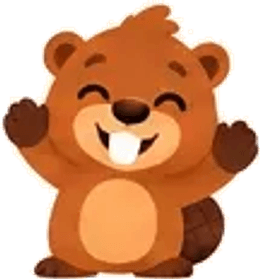
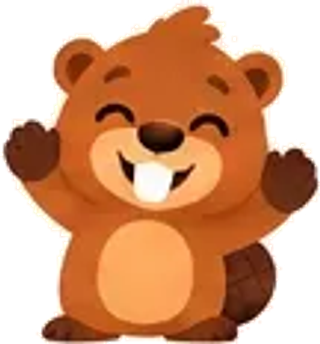
Melhora qualidade de imagem, corrige auto-update do PWA, adiciona painéis e revisões
- Reexporta as imagens do mascote sem paletização de cor (estavam em PNG
  indexado de 256 cores, causando banding visível nos degradês); a
  ilustração de boas-vindas (bento-hero.png) tinha o mesmo problema.
- Corrige a causa provável de "imagem bugada/antiga": o PWA não recarregava
  sozinho depois de um deploy, então dava pra ver uma mistura de bundle JS
  velho com assets novos até fechar e reabrir o app manualmente. Agora
  registra o service worker via virtual:pwa-register e recarrega sozinho
  (com um toast) quando detecta uma versão nova.
- Agrupa as 11 trilhas em 5 painéis temáticos (Fundamentos, Operações do
  dia a dia, Análise e Gestão, Tributos e Auditoria, Extras), com cabeçalho
  próprio na tela inicial, no estilo das seções do Duolingo.
- Adiciona uma lição de revisão ao final de cada trilha (formato
  "checkpoint": pouca teoria nova, exercícios que recombinam o que já foi
  ensinado com números/frases diferentes). 68 → 79 lições.

diff --git a/src/content/layout.js b/src/content/layout.js
@@ -1,21 +1,34 @@
 /* Ordem final das trilhas/unidades e a função que monta COURSES a partir do
    conteúdo bruto (as 7 trilhas originais + as lições novas + os exercícios bônus). */
 
+/* Painéis: agrupam as trilhas em blocos temáticos maiores, no estilo das
+   "seções" do Duolingo, só para organizar visualmente a lista de trilhas
+   em src/ui/screens/home.js (courseRow/renderHome). Não afeta a lógica de
+   progresso: uma trilha continua liberando a próxima na ordem de LAYOUT,
+   independente do painel. */
+export const PANELS = [
+ {id:"fund", title:"Fundamentos", desc:"A base de tudo: matemática do dia a dia, o que é Contabilidade, débito e crédito."},
+ {id:"op", title:"Operações do dia a dia", desc:"Os lançamentos que toda empresa faz: compras, vendas, bens duradouros e estoque."},
+ {id:"gestao", title:"Análise e Gestão", desc:"Ler as demonstrações e usar custos para decidir."},
+ {id:"trib_aud", title:"Tributos e Auditoria", desc:"Como a empresa paga tributos e como ela é auditada."},
+ {id:"extra", title:"Extras", desc:"Leve o que aprendeu para a sua própria vida financeira."}
+];
+
 export const LAYOUT = [
- {id:"antes", title:"Antes de Tudo", icon:"🧮", color:"#4059AD", desc:"O básico do básico: porcentagem, juros, saldo, empresa e documentos. Para começar do zero absoluto.",
-  units:[["Matemática do dia a dia",["antes1","antes2","antes3","antes4","antes9","antes10"]],["O mundo dos negócios",["antes5","antes6","antes7","antes8"]]]},
- {id:"base", units:[["O que é Contabilidade",["base1","base2"]],["Equação e resultado",["base3","base4","base5","base6"]]]},
- {id:"dc", units:[["Razonetes e natureza",["dc1","dc2"]],["Lançando de verdade",["dc3","dc4","dc5","dc6"]]]},
- {id:"lanc", units:[["Operações comerciais",["lanc1","lanc2","lanc3","lanc8","lanc9"]],["Ajustes e livros",["lanc4","lanc6","lanc7","lanc5"]]]},
- {id:"imob", units:[["Bens de uso duradouro",["imob1","imob2","imob3"]],["Intangíveis e avaliação",["imob4","imob5"]]]},
- {id:"estoq", title:"Estoques e Custo de Mercadorias", icon:"📦", color:"#4C7A3F", desc:"Como o estoque vira custo: aquisição, PEPS, custo médio, apuração do CMV e ajustes por perda.",
-  units:[["Do estoque ao CMV",["estoq1","estoq2","estoq3","estoq4","estoq5","estoq6"]]]},
- {id:"demo", units:[["Balanço e DRE",["demo1","demo2"]],["Caixa, notas e análise",["demo3","demo5","demo4","demo6"]]]},
- {id:"cust", units:[["Classificando custos",["cust1","cust2","cust5"]],["Decisões",["cust3","cust4","cust6"]]]},
- {id:"trib", units:[["Tributos",["trib1","trib2","trib3","trib4"]]]},
- {id:"aud", units:[["Fundamentos",["aud1","aud2","aud3"]],["Execução e relatório",["aud4","aud5","aud6"]]]},
- {id:"vida", title:"Contabilidade para a Vida", icon:"🏠", color:"#C06A1B", desc:"Use o que aprendeu no seu dinheiro: balanço pessoal, orçamento, reserva e dívidas.",
-  units:[["Finanças pessoais",["vida1","vida2","vida3","vida4"]]]}
+ {id:"antes", panel:"fund", title:"Antes de Tudo", icon:"🧮", color:"#4059AD", desc:"O básico do básico: porcentagem, juros, saldo, empresa e documentos. Para começar do zero absoluto.",
+  units:[["Matemática do dia a dia",["antes1","antes2","antes3","antes4","antes9","antes10"]],["O mundo dos negócios",["antes5","antes6","antes7","antes8"]],["Revisão",["antes11"]]]},
+ {id:"base", panel:"fund", units:[["O que é Contabilidade",["base1","base2"]],["Equação e resultado",["base3","base4","base5","base6"]],["Revisão",["base7"]]]},
+ {id:"dc", panel:"fund", units:[["Razonetes e natureza",["dc1","dc2"]],["Lançando de verdade",["dc3","dc4","dc5","dc6"]],["Revisão",["dc7"]]]},
+ {id:"lanc", panel:"op", units:[["Operações comerciais",["lanc1","lanc2","lanc3","lanc8","lanc9"]],["Ajustes e livros",["lanc4","lanc6","lanc7","lanc5"]],["Revisão",["lanc10"]]]},
+ {id:"imob", panel:"op", units:[["Bens de uso duradouro",["imob1","imob2","imob3"]],["Intangíveis e avaliação",["imob4","imob5"]],["Revisão",["imob6"]]]},
+ {id:"estoq", panel:"op", title:"Estoques e Custo de Mercadorias", icon:"📦", color:"#4C7A3F", desc:"Como o estoque vira custo: aquisição, PEPS, custo médio, apuração do CMV e ajustes por perda.",
+  units:[["Do estoque ao CMV",["estoq1","estoq2","estoq3","estoq4","estoq5","estoq6"]],["Revisão",["estoq7"]]]},
+ {id:"demo", panel:"gestao", units:[["Balanço e DRE",["demo1","demo2"]],["Caixa, notas e análise",["demo3","demo5","demo4","demo6"]],["Revisão",["demo7"]]]},
+ {id:"cust", panel:"gestao", units:[["Classificando custos",["cust1","cust2","cust5"]],["Decisões",["cust3","cust4","cust6"]],["Revisão",["cust7"]]]},
+ {id:"trib", panel:"trib_aud", units:[["Tributos",["trib1","trib2","trib3","trib4"]],["Revisão",["trib5"]]]},
+ {id:"aud", panel:"trib_aud", units:[["Fundamentos",["aud1","aud2","aud3"]],["Execução e relatório",["aud4","aud5","aud6"]],["Revisão",["aud7"]]]},
+ {id:"vida", panel:"extra", title:"Contabilidade para a Vida", icon:"🏠", color:"#C06A1B", desc:"Use o que aprendeu no seu dinheiro: balanço pessoal, orçamento, reserva e dívidas.",
+  units:[["Finanças pessoais",["vida1","vida2","vida3","vida4"]],["Revisão",["vida5"]]]}
 ];
 
 /**
@@ -31,7 +44,7 @@ export function buildCourses(rawCourses, newLessons, extra){
   Object.keys(extra).forEach(id => { pool[id].ex = pool[id].ex.concat(extra[id]); });
   return LAYOUT.map(L => {
     const o = old[L.id] || {};
-    const c = { id:L.id, title:L.title || o.title, icon:L.icon || o.icon, color:L.color || o.color, desc:L.desc || o.desc };
+    const c = { id:L.id, panel:L.panel, title:L.title || o.title, icon:L.icon || o.icon, color:L.color || o.color, desc:L.desc || o.desc };
     c.units = L.units.map(u => ({ t:u[0], lessons:u[1].map(id => pool[id]) }));
     c.lessons = [].concat.apply([], c.units.map(u => u.lessons));
     return c;

diff --git a/src/content/trilhas/imob.js b/src/content/trilhas/imob.js
@@ -82,6 +82,18 @@ export default {
     {t:"tf", q:"Um ativo pode ficar registrado por um valor contábil maior do que o seu valor recuperável, sem qualquer ajuste.", a:false, e:"Pela prudência, quando o valor contábil supera o recuperável, reconhece-se a perda."},
     {t:"mc", q:"Ativos intangíveis de vida útil indefinida, como o goodwill, devem ser testados quanto ao valor recuperável:", o:["Todo ano, com ou sem indício de perda","Só quando a empresa quiser","Nunca, porque não amortizam","Só no ano da compra"], a:0, e:"Por não terem amortização regular, a checagem anual é obrigatória."},
     {t:"tf", q:"Havendo indícios de perda de valor, um bem de vida útil definida também deve ser testado quanto ao valor recuperável, mesmo fora do teste anual obrigatório dos intangíveis de vida indefinida.", a:true, e:"Indícios de perda de valor disparam o teste a qualquer momento, para qualquer tipo de ativo."}
+   ]},
+  {id:"imob6", title:"Revisão: imobilizado e intangíveis", icon:"🔄",
+   learn:[
+    {h:"Do custo à baixa", b:ol(['Reconhecimento: custo total até o bem ficar pronto para uso.','Depreciação: distribui o custo ao longo da vida útil (linear, acelerado ou por unidades produzidas).','Baixa: compara o valor de venda com o valor contábil líquido para achar ganho ou perda.','Impairment: se o valor recuperável cair abaixo do valor contábil, reconhece-se a perda.'])}
+   ],
+   ex:[
+    {t:"num", q:"Equipamento de R$ 25.000, com frete de R$ 1.000 e instalação de R$ 2.000. Qual o custo capitalizado?", a:28000, u:"R$", e:"25.000 + 1.000 + 2.000 = 28.000."},
+    {t:"num", q:"Bem com custo de R$ 60.000, valor residual de R$ 10.000 e vida útil de 5 anos. Qual a depreciação anual pelo método linear?", a:10000, u:"R$", e:"(60.000 − 10.000) ÷ 5 = 10.000."},
+    {t:"num", q:"Máquina com custo de R$ 40.000 e depreciação acumulada de R$ 24.000, vendida por R$ 20.000. Qual o resultado da venda?", a:4000, u:"R$", e:"Valor contábil = 40.000 − 24.000 = 16.000. Resultado = 20.000 − 16.000 = 4.000 de ganho."},
+    {t:"tf", q:"O ágio por rentabilidade futura (goodwill) é amortizado mensalmente, como qualquer outro intangível.", a:false, e:"O goodwill não é amortizado; é testado por impairment todo ano."},
+    {t:"mc", q:"Um ativo com valor contábil de R$ 90.000 e valor recuperável de R$ 65.000 deve:", o:["Reconhecer uma perda por impairment de R$ 25.000","Ser reavaliado para cima","Continuar sem nenhum ajuste","Virar despesa integral imediatamente"], a:0, e:"90.000 − 65.000 = 25.000 de perda, pelo princípio da prudência."},
+    {t:"mc", q:"Terrenos, em geral, sofrem:", o:["Nenhuma depreciação, por terem vida útil indefinida","Depreciação acelerada","Amortização mensal","Exaustão"], a:0, e:"Terrenos não se desgastam com o uso da mesma forma que máquinas e veículos."}
    ]}
   ]
 };

diff --git a/src/content/trilhas/trib.js b/src/content/trilhas/trib.js
@@ -66,6 +66,18 @@ export default {
     {t:"tf", q:"Emitir uma nota fiscal com valor menor do que o real para pagar menos imposto é elisão fiscal.", a:false, e:"Isso é evasão (sonegação): um meio ilícito, e não apenas uma escolha entre opções legais."},
     {t:"mc", q:"Sonegação fiscal é:", o:["Crime, além de gerar multa e cobrança do tributo com juros","Apenas uma infração administrativa leve","Permitida se o valor for pequeno","O mesmo que elisão fiscal"], a:0, e:"A Lei nº 8.137/1990 tipifica crimes contra a ordem tributária."},
     {t:"match", pairs:[["Elisão fiscal","Redução lícita da carga tributária"],["Evasão fiscal","Redução por meios ilícitos, como omitir receita"],["Fato gerador","O evento que faz nascer a obrigação de pagar o tributo"]], e:"O critério central é sempre a licitude do meio usado."}
+   ]},
+  {id:"trib5", title:"Revisão: tributos", icon:"🔄",
+   learn:[
+    {h:"O mapa dos tributos", b:tbl(['Pergunta','Resposta'],[['Imposto, taxa ou contribuição de melhoria?','Taxa tem contrapartida de serviço; contribuição de melhoria vem de obra pública'],['Direto ou indireto?','Direto recai sobre quem paga; indireto é repassado no preço'],['Qual regime?','Simples (pequenas empresas), Presumido (base por %) ou Real (sobre o lucro ajustado)'],['Lícito ou ilícito?','Elisão é legal; evasão (sonegação) é crime']])}
+   ],
+   ex:[
+    {t:"mc", q:"O ICMS é um tributo:", o:["Indireto, embutido no preço","Direto, recai só sobre o dono da empresa","Que não existe mais","Municipal"], a:0, e:"ICMS é repassado ao consumidor no preço: tributo indireto."},
+    {t:"match", pairs:[["Imposto","Sem contrapartida específica"],["Taxa","Paga por um serviço ou fiscalização"],["Contribuição de melhoria","Por obra pública que valoriza o imóvel"]], e:"As três espécies clássicas de tributo."},
+    {t:"tf", q:"No Simples Nacional, vários tributos são pagos numa guia única, o DAS.", a:true, e:"É uma das principais vantagens do regime para pequenas empresas."},
+    {t:"mc", q:"Escolher, entre dois regimes tributários permitidos, o que gera menos imposto a pagar é:", o:["Elisão fiscal","Evasão fiscal","Crime contra a ordem tributária","Impossível de se fazer"], a:0, e:"É uma escolha lícita, dentro do que a lei permite."},
+    {t:"tf", q:"No Lucro Real, uma empresa sem lucro no período ainda paga IRPJ normalmente.", a:false, e:"No Lucro Real, o IRPJ incide sobre o lucro; sem lucro, não há imposto a pagar."},
+    {t:"mc", q:"Emitir uma nota fiscal com valor menor do que o real para pagar menos imposto é:", o:["Evasão fiscal (sonegação), um crime","Elisão fiscal, uma prática legal","Irrelevante para a Contabilidade","Obrigatório em alguns casos"], a:0, e:"É um meio ilícito de reduzir tributo: evasão fiscal."}
    ]}
   ]
 };

diff --git a/src/content/trilhas/aud.js b/src/content/trilhas/aud.js
@@ -93,6 +93,18 @@ export default {
     {t:"tf", q:"A responsabilidade primária por prevenir e detectar fraudes no dia a dia é da administração da empresa.", a:true, e:"Os controles internos, mantidos pela administração, são a primeira linha de defesa."},
     {t:"mc", q:"Um funcionário que desvia dinheiro do caixa para uso pessoal comete:", o:["Apropriação indevida de ativos","Manipulação de resultados","Um erro contábil","Uma estimativa incorreta"], a:0, e:"É o desvio de um ativo específico, diferente de maquiar o resultado da empresa toda."},
     {t:"tf", q:"Fraudes costumam ser mais fáceis de detectar do que erros, porque deixam mais rastros.", a:false, e:"O contrário: fraudes envolvem ocultação deliberada, o que as torna mais difíceis de detectar."}
+   ]},
+  {id:"aud7", title:"Revisão: auditoria", icon:"🔄",
+   learn:[
+    {h:"Do planejamento à opinião", b:ol(['Avaliar <b>risco</b> e definir a <b>materialidade</b>.','Entender e testar os <b>controles internos</b>.','Coletar <b>evidências</b> (inspeção, confirmação, recálculo...).','Emitir o <b>relatório</b>, com opinião sem ressalva, com ressalva, adversa ou abstenção.'])}
+   ],
+   ex:[
+    {t:"mc", q:"A auditoria das demonstrações financeiras oferece:", o:["Segurança razoável, não certeza absoluta","Certeza absoluta de que não há erros","Garantia de lucro futuro","Aprovação do plano de negócios"], a:0, e:"Ela usa testes e amostragem, não examina 100% das transações."},
+    {t:"num", q:"Lucro antes dos impostos de R$ 800.000 e materialidade de 5%. Qual o valor da materialidade?", a:40000, u:"R$", e:"800.000 × 5% = 40.000."},
+    {t:"mc", q:"Segregação de funções significa:", o:["Pessoas diferentes autorizam, registram e guardam os ativos","Uma só pessoa de confiança cuida de tudo","Eliminar toda supervisão","Trocar de contador a cada ano"], a:0, e:"Assim ninguém consegue cometer e esconder um erro ou fraude sozinho."},
+    {t:"match", pairs:[["Confirmação externa","Resposta direta de um terceiro, como um banco"],["Recálculo","Refazer as contas"],["Observação","Ver um processo acontecendo, como a contagem do estoque"]], e:"Cada procedimento produz um tipo de evidência."},
+    {t:"tf", q:"Um parágrafo de ênfase no relatório do auditor muda a opinião emitida.", a:false, e:"A ênfase só destaca algo já divulgado corretamente; a opinião continua a mesma."},
+    {t:"mc", q:"Distorções relevantes e generalizadas nas demonstrações levam a uma opinião:", o:["Adversa","Sem ressalva","Sempre com ressalva","Não é preciso opinar"], a:0, e:"Quando o problema é ao mesmo tempo relevante e espalhado pelas demonstrações, a opinião é adversa."}
    ]}
   ]
 };

diff --git a/src/content/trilhas/base.js b/src/content/trilhas/base.js
@@ -111,6 +111,18 @@ export default {
     {t:"class", q:"Nesta situação, em que mês fica cada despesa pelo regime de COMPETÊNCIA?", cats:["Mês do fato gerador","Mês do pagamento"], items:[["Aluguel de março pago em abril",0],["Salário de junho pago em julho",0],["Conta de telefone de maio paga em maio",0],["Serviço prestado em agosto, cobrado em setembro",0]], e:"Pela competência, tudo vai para o mês em que o fato realmente aconteceu, não para o mês do pagamento."},
     {t:"tf", q:"O regime de caixa pode fazer um mês parecer mais lucrativo do que realmente foi.", a:true, e:"Um recebimento adiantado, por exemplo, infla o caixa de um mês que na verdade teve pouca atividade."},
     {t:"wr", q:"Qual regime registra os fatos no momento em que eles acontecem, e não quando o dinheiro se move?", a:["competencia","regime de competencia"], e:"Regime de competência."}
+   ]},
+  {id:"base7", title:"Revisão: os pilares da Contabilidade", icon:"🔄",
+   learn:[
+    {h:"O que você já sabe", b:tbl(['Conceito','Resumo'],[['Patrimônio','Bens + direitos − obrigações'],['Equação fundamental','Ativo = Passivo + PL'],['Resultado','Receitas − Despesas'],['Competência','Registra quando acontece, não quando paga/recebe'],['Plano de contas','Organiza as contas em níveis; só analíticas recebem lançamento']])}
+   ],
+   ex:[
+    {t:"num", q:"Ativo de R$ 180.000 e Passivo de R$ 70.000. Qual o Patrimônio Líquido?", a:110000, u:"R$", e:"180.000 − 70.000 = 110.000."},
+    {t:"class", q:"Bem, direito, obrigação ou nenhum dos três?", cats:["Bem","Direito","Obrigação"], items:[["Veículos",0],["Duplicatas a receber",1],["Empréstimos a pagar",2],["Estoques",0]], e:"Bens você tem, direitos você vai receber, obrigações você vai pagar."},
+    {t:"num", q:"Receitas de R$ 60.000 e despesas de R$ 47.000 no mês. Qual o resultado?", a:13000, u:"R$", e:"60.000 − 47.000 = 13.000 de lucro."},
+    {t:"mc", q:"Uma venda feita em outubro e recebida em novembro é receita de:", o:["Outubro","Novembro","Metade em cada mês","Do mês do boleto"], a:0, e:"Regime de competência: a receita é do mês do fato, não do recebimento."},
+    {t:"tf", q:"Uma conta sintética, como \"Ativo Circulante\", pode receber lançamentos diretamente.", a:false, e:"Só as contas analíticas (o último nível) recebem lançamentos."},
+    {t:"mc", q:"Os sócios integralizam R$ 40.000 em dinheiro na abertura da empresa. O que acontece com o patrimônio?", o:["Ativo e PL aumentam juntos","Só o Ativo aumenta","Só o PL aumenta","Nada muda"], a:0, e:"Entra dinheiro (Ativo) e nasce o Capital Social (PL): os dois lados da equação sobem juntos."}
    ]}
   ]
 };

diff --git a/src/content/trilhas/demo.js b/src/content/trilhas/demo.js
@@ -95,6 +95,18 @@ export default {
     {t:"num", q:"Ciclo operacional de 70 dias e prazo médio de pagamento a fornecedores de 20 dias. Qual o ciclo financeiro?", a:50, s:"dias", e:"70 − 20 = 50 dias que a empresa financia com recursos próprios."},
     {t:"tf", q:"Quanto maior o ciclo financeiro, menos caixa próprio a empresa precisa para bancar a operação.", a:false, e:"É o contrário: um ciclo financeiro maior exige mais caixa próprio, porque a empresa paga antes de receber."},
     {t:"mc", q:"Negociar um prazo maior com os fornecedores tende a:", o:["Reduzir o ciclo financeiro","Aumentar o ciclo financeiro","Não afetar o ciclo financeiro","Aumentar o ciclo operacional"], a:0, e:"Um PMP maior é descontado do ciclo operacional, reduzindo o ciclo financeiro."}
+   ]},
+  {id:"demo7", title:"Revisão: demonstrações financeiras", icon:"🔄",
+   learn:[
+    {h:"Quem responde o quê", b:tbl(['Demonstração','Pergunta que responde'],[['Balanço Patrimonial','O que a empresa tem e deve, numa data?'],['DRE','Como ela chegou ao lucro, num período?'],['DFC','Por onde o dinheiro entrou e saiu de verdade?'],['Índices','A situação é boa, comparada a quê?'],['DMPL','O que mudou no Patrimônio Líquido?']])}
+   ],
+   ex:[
+    {t:"mc", q:"Qual demonstração é uma \"fotografia\" de uma data, e não de um período?", o:["Balanço Patrimonial","DRE","DFC","DMPL"], a:0, e:"O Balanço mostra a posição numa data; a DRE e a DFC mostram um período."},
+    {t:"num", q:"Receita líquida de R$ 90.000 e CMV de R$ 55.000. Qual o lucro bruto?", a:35000, u:"R$", e:"90.000 − 55.000 = 35.000."},
+    {t:"num", q:"Ativo Circulante de R$ 150.000 e Passivo Circulante de R$ 100.000. Qual a liquidez corrente?", a:1.5, e:"150.000 ÷ 100.000 = 1,5."},
+    {t:"tf", q:"No método indireto da DFC, a depreciação é somada de volta ao lucro líquido.", a:true, e:"Ela reduziu o lucro sem tirar dinheiro do caixa."},
+    {t:"class", q:"Em que atividade da DFC entra cada item?", cats:["Operacional","Investimento","Financiamento"], items:[["Recebimento de clientes",0],["Compra de uma máquina",1],["Pagamento de dividendos",2]], e:"Operacional é o dia a dia; investimento são ativos de longo prazo; financiamento envolve sócios e credores."},
+    {t:"mc", q:"Uma empresa lucrativa pode, ainda assim, ficar sem caixa. Por quê?", o:["Porque lucro é apurado por competência, e caixa depende de recebimentos reais","Porque a DRE sempre mente","Porque isso nunca acontece","Porque o Balanço erra o cálculo"], a:0, e:"Vender tudo a prazo, por exemplo, gera lucro contábil sem entrada imediata de caixa."}
    ]}
   ]
 };

diff --git a/src/content/trilhas/dc.js b/src/content/trilhas/dc.js
@@ -108,6 +108,18 @@ export default {
     {t:"num", q:"Depois de encerradas as contas, a Apuração do Resultado do Exercício tem receitas totais de R$ 80.000 e despesas totais de R$ 65.000. Qual o resultado?", a:15000, u:"R$", e:"80.000 − 65.000 = 15.000 de lucro."},
     {t:"mc", q:"O lucro apurado na ARE é transferido, no fechamento, para:", o:["Uma conta do Patrimônio Líquido, como Lucros acumulados","O Ativo Circulante","O Passivo Não Circulante","A conta Caixa"], a:0, e:"O lucro pertence aos sócios, por isso engorda o PL."},
     {t:"tf", q:"Se as despesas superarem as receitas na apuração, o resultado reduz o Patrimônio Líquido.", a:true, e:"Um prejuízo diminui o PL, ao contrário do lucro."}
+   ]},
+  {id:"dc7", title:"Revisão: débito e crédito", icon:"🔄",
+   learn:[
+    {h:"A regra de ouro, de novo", b:box('regra','<b>Ativo e Despesa</b> aumentam no DÉBITO.<br><b>Passivo, PL e Receita</b> aumentam no CRÉDITO.') + `<p>Todo lançamento tem débitos e créditos de mesmo valor (partidas dobradas), e no fim do período as contas de resultado são encerradas contra a Apuração do Resultado do Exercício.</p>`}
+   ],
+   ex:[
+    {t:"class", q:"Débito ou crédito para AUMENTAR cada conta?", cats:["Débito","Crédito"], items:[["Caixa",0],["Fornecedores",1],["Receita de vendas",1],["Despesa com aluguel",0],["Capital social",1]], e:"Ativo e despesa aumentam no débito; passivo, PL e receita aumentam no crédito."},
+    {t:"entry", q:"Pagamento de uma conta de energia, R$ 400, em dinheiro.", accts:["Despesa com energia","Caixa","Fornecedores","Receita de vendas"], d:["Despesa com energia"], c:["Caixa"], e:"A despesa aumenta (débito) e o Caixa diminui (crédito)."},
+    {t:"tf", q:"Um fato permutativo, como transferir dinheiro do Caixa para o Banco, altera o Patrimônio Líquido.", a:false, e:"Permutativo só troca valores entre contas do Ativo; quem altera o PL são receitas e despesas."},
+    {t:"num", q:"Uma conta tem débitos de R$ 3.000 e créditos de R$ 4.500. Qual o saldo e de que tipo?", a:1500, u:"R$", e:"4.500 − 3.000 = 1.500, saldo credor (o lado do crédito é maior)."},
+    {t:"mc", q:"Ao encerrar as contas de resultado no fim do período, uma conta de receita é:", o:["Debitada, para zerar seu saldo credor","Creditada de novo","Transferida direto para o Ativo","Ignorada"], a:0, e:"Debitar uma conta que normalmente é credora zera o seu saldo."},
+    {t:"wr", q:"Como se chama o lançamento que corrige um erro invertendo débito e crédito do lançamento original?", a:["estorno"], e:"Estorno."}
    ]}
   ]
 };

diff --git a/src/content/trilhas/cust.js b/src/content/trilhas/cust.js
@@ -93,6 +93,18 @@ export default {
     {t:"mc", q:"No mark-up divisor, os percentuais de despesas, impostos e lucro incidem sobre:", o:["O preço de venda","O custo do produto","O lucro líquido total da empresa","O capital social"], a:0, e:"Por isso a fórmula divide o custo por (1 − soma dos percentuais), em vez de multiplicar."},
     {t:"tf", q:"Um preço calculado pelo mark-up sempre garante que o produto vai vender bem no mercado.", a:false, e:"O mark-up é um ponto de partida; a concorrência e a disposição do cliente a pagar também definem o preço."},
     {t:"tf", q:"Margem sobre o custo e margem sobre o preço de venda são a mesma conta.", a:false, e:"São bases diferentes e dão resultados diferentes; é preciso saber qual está sendo usada."}
+   ]},
+  {id:"cust7", title:"Revisão: custos e gerencial", icon:"🔄",
+   learn:[
+    {h:"O caminho do gasto", b:ol(['Todo gasto nasce como <b>investimento</b>, <b>custo</b>, <b>despesa</b> ou <b>perda</b>.','Custos podem ser <b>diretos</b> ou <b>indiretos</b>, e <b>fixos</b> ou <b>variáveis</b>.','A <b>margem de contribuição</b> (preço − custo variável) define o <b>ponto de equilíbrio</b>.','O <b>orçamento</b> parte das vendas esperadas e se desdobra em produção, compras e caixa.'])}
+   ],
+   ex:[
+    {t:"class", q:"Classifique cada gasto", cats:["Custo","Despesa","Investimento"], items:[["Matéria-prima consumida",0],["Comissão de vendas",1],["Compra de uma máquina nova",2],["Salário do supervisor de fábrica",0]], e:"Custo é da produção; despesa é de vender/administrar; investimento fica no Ativo."},
+    {t:"num", q:"Preço de venda de R$ 60 e custo variável de R$ 35 por unidade. Qual a margem de contribuição unitária?", a:25, u:"R$", e:"60 − 35 = 25."},
+    {t:"num", q:"Custos fixos de R$ 20.000 e margem de contribuição unitária de R$ 25. Qual o ponto de equilíbrio, em unidades?", a:800, e:"20.000 ÷ 25 = 800."},
+    {t:"mc", q:"No custeio por absorção, os custos fixos de fábrica:", o:["Vão para o produto e ficam no estoque até a venda","Viram despesa do período inteira","São ignorados","Viram receita"], a:0, e:"É a diferença central em relação ao custeio variável."},
+    {t:"tf", q:"Se a produção dobra, o custo fixo total também dobra.", a:false, e:"O custo fixo total não muda com o volume; o que cai é o custo fixo por unidade."},
+    {t:"num", q:"Custo de R$ 50 e soma dos percentuais sobre o preço de 50%. Qual o preço de venda pelo mark-up divisor?", a:100, u:"R$", e:"50 ÷ (1 − 0,50) = 50 ÷ 0,50 = 100."}
    ]}
   ]
 };

diff --git a/src/content/trilhas/lanc.js b/src/content/trilhas/lanc.js
@@ -153,6 +153,18 @@ export default {
     {t:"mc", q:"No Balanço, a Provisão para Devedores Duvidosos aparece:", o:["Reduzindo o saldo de Clientes","Somada ao Passivo","Como despesa financeira","No Patrimônio Líquido"], a:0, e:"É uma conta redutora do Ativo, junto de Clientes."},
     {t:"tf", q:"Quando um cliente específico não paga e já havia provisão constituída, a baixa gera uma nova despesa.", a:false, e:"A baixa usa a provisão que já existia; a despesa já tinha sido reconhecida antes."},
     {t:"num", q:"Clientes de R$ 80.000 e provisão de R$ 3.000. Qual o valor líquido de Clientes no Balanço?", a:77000, u:"R$", e:"80.000 − 3.000 = 77.000."}
+   ]},
+  {id:"lanc10", title:"Revisão: lançamentos do dia a dia", icon:"🔄",
+   learn:[
+    {h:"Os lançamentos mais comuns", b:tbl(['Fato','Lançamento típico'],[['Compra de mercadoria a prazo','D Estoques / C Fornecedores'],['Salário do mês (competência)','D Despesa com salários / C Salários a pagar'],['Depreciação do mês','D Despesa de depreciação / C Depreciação acumulada'],['Pagamento antecipado (seguro)','D Seguros a apropriar / C Bancos, depois D Despesa / C Seguros a apropriar'],['Cliente que não vai pagar (estimado)','D Despesa com devedores duvidosos / C Provisão para devedores duvidosos']])}
+   ],
+   ex:[
+    {t:"entry", q:"Compra de mercadorias a prazo, R$ 4.500.", accts:["Estoques","Fornecedores","Caixa","CMV"], d:["Estoques"], c:["Fornecedores"], e:"Estoques aumenta (débito); nasce a dívida com o fornecedor (crédito)."},
+    {t:"num", q:"Salário de R$ 3.600. Qual a provisão mensal do 13º?", a:300, u:"R$", e:"3.600 ÷ 12 = 300."},
+    {t:"entry", q:"Depreciação do mês de um veículo, R$ 600.", accts:["Despesa de depreciação","Depreciação acumulada","Veículos","Caixa"], d:["Despesa de depreciação"], c:["Depreciação acumulada"], e:"Despesa a débito; redutora do Ativo a crédito, sem saída de caixa."},
+    {t:"tf", q:"Um cliente que devolve uma mercadoria também devolve o produto, que volta ao estoque.", a:true, e:"Diferente do abatimento, a devolução traz a mercadoria de volta fisicamente."},
+    {t:"mc", q:"O que a Provisão para Devedores Duvidosos reduz no Balanço?", o:["O saldo de Clientes","O saldo de Caixa","O Passivo Circulante","O Capital Social"], a:0, e:"É uma conta redutora do Ativo, ao lado de Clientes."},
+    {t:"num", q:"Estoque inicial de R$ 6.000, compras de R$ 25.000 e estoque final de R$ 7.500. Qual o CMV?", a:23500, u:"R$", e:"6.000 + 25.000 − 7.500 = 23.500."}
    ]}
   ]
 };

diff --git a/src/content/trilhas/antes.js b/src/content/trilhas/antes.js
@@ -160,5 +160,20 @@ export default [
   tf("Estimar um resultado antes de calcular com exatidão ajuda a perceber erros grosseiros.",true,"Arredondar os números dá uma ideia da ordem de grandeza esperada."),
   nu("Estoque inicial de R$ 8.000 e final de R$ 10.000. Qual o estoque médio do período?",9000,"(8.000 + 10.000) ÷ 2 = 9.000.","R$","Estoque médio é a média entre inicial e final."),
   wr("Quando cada valor tem um peso diferente na conta, a média se chama média ___.",["ponderada"],"Média ponderada.")
+ ]},
+{id:"antes11", title:"Revisão: matemática financeira", icon:"🔄",
+ learn:[
+  {h:"Sua caixa de ferramentas", b:`<p>Antes de seguir para a Contabilidade de verdade, um resumo rápido do que você já sabe fazer:</p>` +
+    tbl(['Ferramenta','Quando usar'],[['Porcentagem','Impostos, margens, aumentos e descontos'],['Regra de três e rateio','Distribuir um valor no tempo ou entre partes'],['Saldo (+ e −)','Somar entradas e subtrair saídas'],['Juros simples e compostos','O preço do dinheiro no tempo'],['Variação percentual','Comparar um valor novo com o antigo'],['Médias','Custo médio, estoque médio, prazos médios']])},
+  {h:"Um erro comum", b:box('atencao','Aumentar 20% e depois diminuir 20% <b>não</b> volta ao valor original — a segunda conta usa uma base diferente. Isso vale tanto para porcentagem simples quanto para variação percentual.')}
+ ],
+ ex:[
+  nu("Um produto de R$ 300 sobe 20% e depois cai 20%. Qual o valor final?",288,"300 × 1,20 = 360; 360 × 0,80 = 288. Não volta a 300, porque a segunda conta incide sobre uma base maior.","R$","Faça as duas contas em sequência, não de uma vez."),
+  nu("Aluguel anual de R$ 18.000, rateado igualmente pelos 12 meses. Quanto é 1 mês?",1500,"18.000 ÷ 12 = 1.500.","R$"),
+  nu("Juros simples: capital de R$ 4.000 a 1,5% ao mês por 6 meses. Quanto de juros?",360,"4.000 × 0,015 × 6 = 360.","R$"),
+  nu("Vendas foram de R$ 600 para R$ 750. Qual a variação percentual?",25,"(750 − 600) ÷ 600 = 0,25 = 25%.","%"),
+  tf("Um saldo de −R$ 200 é maior do que um saldo de −R$ 500.",true,"Quanto mais próximo de zero (ou positivo), maior o saldo: −200 > −500."),
+  mc("60 unidades a R$ 4 e 40 unidades a R$ 9. Qual a média ponderada por unidade?",["*R$ 6,00","R$ 6,50","R$ 5,00","R$ 13,00"],"(60×4 + 40×9) ÷ 100 = (240+360) ÷ 100 = 6,00."),
+  nu("Um seguro semestral de R$ 3.600 é pago à vista. Quanto corresponde a 2 meses?",1200,"3.600 ÷ 6 × 2 = 1.200.","R$")
  ]}
 ];

diff --git a/src/ui/screens/home.js b/src/ui/screens/home.js
@@ -2,7 +2,7 @@ import { $, bindActs } from '../dom.js';
 import { S, today, nextLesson, doneCount, curStreak, courseComplete, courseUnlocked, lessonsDone } from '../../engine/state.js';
 import { save } from '../../engine/storage.js';
 import { pick } from '../../engine/random.js';
-import { COURSES, TIPS } from '../../content/index.js';
+import { COURSES, TIPS, PANELS } from '../../content/index.js';
 import { SAY } from '../../content/dialogues.js';
 import { bento } from '../components/bento.js';
 import { go, sheet, ring, missionCard, claimMission, claimChest } from '../router.js';
@@ -24,7 +24,7 @@ export function renderHome(){
   const bubble = pick(cs >= 3 ? ['Sua sequência de ' + cs + ' dias está incrível! 🔥', SAY.learn[0]] : [pick(TIPS)]);
   s.innerHTML = '<div class="bento-row"><div class="bento-wrap sm">' + bento('idle') + '</div><div class="speech">' + bubble + '</div></div>' +
     '<div class="goal-row">' + ring(Math.min(1, tx / S.goal), hit) + '<div><div class="goal-t">' + (hit ? 'Meta de hoje concluída!' : 'Meta de hoje') + '</div><div class="goal-s">' + tx + ' de ' + S.goal + ' XP</div></div></div>' +
-    cont + missionCard() + '<h2 class="sec-h">Trilhas do curso</h2><div class="course-list">' + COURSES.map(courseRow).join('') + '</div>';
+    cont + missionCard() + '<h2 class="sec-h">Trilhas do curso</h2>' + panelList();
   bindActs(s, {
     cont: () => openLesson(nl),
     final: () => { const c = COURSES.find(c => courseComplete(c) && !S.trophies[c.id]); openPath(c); },
@@ -33,6 +33,16 @@ export function renderHome(){
     chest: claimChest,
     course: b => { const c = COURSES[+b.dataset.i]; if (courseUnlocked(c)) openPath(c); else lockedCourse(c); }
   });
+}
+function panelList(){
+  let n = 0;
+  return PANELS.map(p => {
+    const cs = COURSES.filter(c => c.panel === p.id);
+    if (!cs.length) return '';
+    n++;
+    return '<div class="panel"><div class="panel-head"><div class="panel-num">' + n + '</div><div><div class="panel-t">' + p.title + '</div><div class="panel-d">' + p.desc + '</div></div></div>' +
+      '<div class="course-list">' + cs.map(courseRow).join('') + '</div></div>';
+  }).join('');
 }
 export function courseRow(c){
   const d = lessonsDone(c), n = c.lessons.length, lk = !courseUnlocked(c);

diff --git a/src/content/trilhas/estoq.js b/src/content/trilhas/estoq.js
@@ -94,5 +94,17 @@ export default [
   tf("Produtos em elaboração é o estoque do que já está pronto, esperando ser vendido.",false,"O que já está pronto é Produtos acabados. Em elaboração é o que ainda está sendo fabricado."),
   mt([["Matéria-prima","Insumo ainda não usado na produção"],["Produtos em elaboração","Está sendo fabricado agora"],["Produtos acabados","Pronto para vender"],["CPV","Custo do que já foi vendido"]],"Cada fase do estoque industrial tem seu próprio nome de conta."),
   wr("Na indústria, como se chama o custo do que foi vendido, equivalente ao CMV do comércio? (sigla)",["cpv"],"CPV: Custo dos Produtos Vendidos.")
+ ]},
+{id:"estoq7", title:"Revisão: estoques", icon:"🔄",
+ learn:[
+  {h:"O caminho do estoque", b:tbl(['Etapa','O que acontece'],[['Custo de aquisição','Preço + frete + seguro − desconto incondicional'],['Método de custeio','PEPS ou custo médio ponderado decidem o custo de saída'],['CMV','Estoque inicial + Compras − Estoque final'],['Ajuste','Contagem física pode revelar perda a ajustar']])}
+ ],
+ ex:[
+  nu("Compra de R$ 12.000, frete de R$ 600 e desconto incondicional de R$ 300. Qual o custo de aquisição?",12300,"12.000 + 600 − 300 = 12.300.","R$"),
+  nu("Estoque: 50 un a R$ 6 (lote 1) e 100 un a R$ 9 (lote 2). Pelo PEPS, vendendo 80 un, qual o CMV?",570,"50×6=300 (lote 1 todo) + 30×9=270 (parte do lote 2). CMV = 300+270=570.","R$","Primeiro sai todo o lote mais antigo."),
+  nu("Estoque inicial R$ 10.000, compras R$ 40.000, estoque final R$ 9.000. Qual o CMV?",41000,"10.000 + 40.000 − 9.000 = 41.000.","R$"),
+  tf("O método UEPS é aceito pelas normas contábeis brasileiras.",false,"No Brasil usam-se PEPS ou custo médio ponderado; o UEPS não é aceito."),
+  mc("A contagem física do estoque aponta R$ 8.200, mas o saldo contábil é R$ 8.800. O que isso indica?",["*Uma perda de R$ 600 a ajustar","Um ganho de R$ 600","Que não há nada a fazer","Um erro que se corrige sozinho"],"8.800 − 8.200 = 600 de diferença, tratada como perda de estoque."),
+  wr("Numa indústria, como se chama o estoque do que ainda está sendo fabricado?",["produtos em elaboracao","em elaboracao","produto em elaboracao"],"Produtos em elaboração.")
  ]}
 ];
